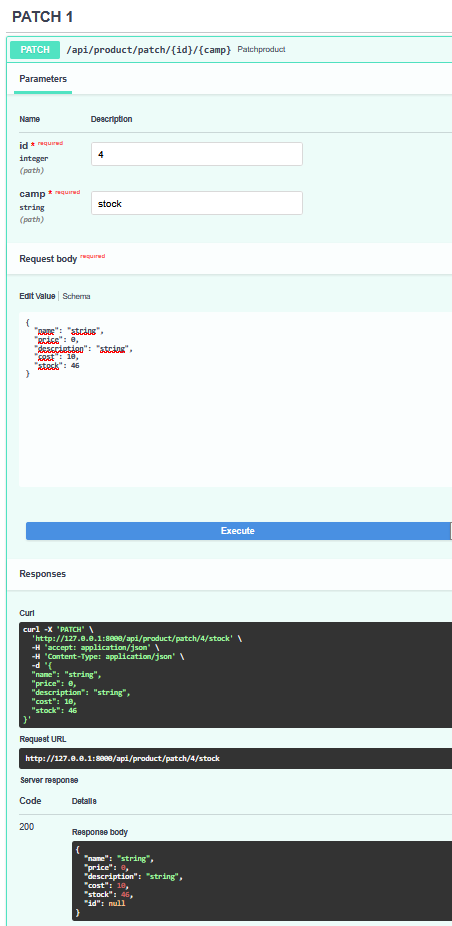
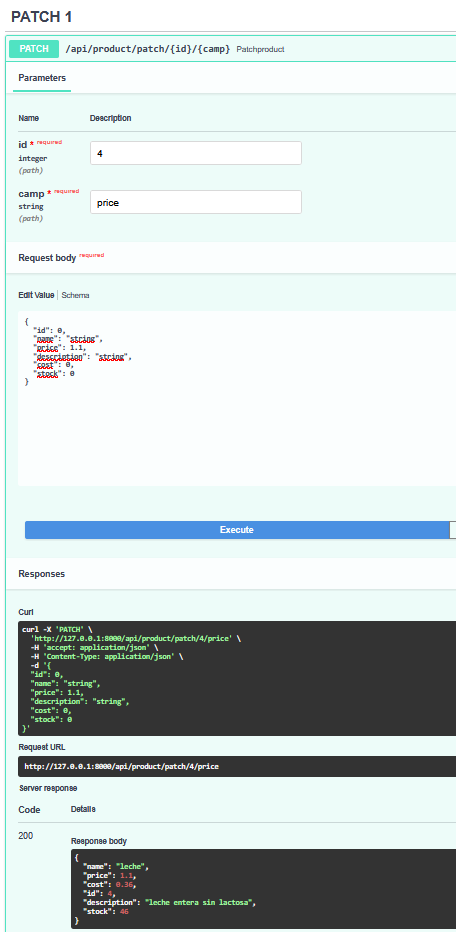
updated patch

diff --git a/main.py b/main.py
@@ -94,7 +94,8 @@ async def patchProduct(id: int,camp:str, product: Product, db:Session=Depends(ge
     stmt = update(Product).where(Product.id == id).values({camp: new_value})
     db.exec(stmt)
     db.commit()
-    return product
+    product_db = db.get(Product, id)
+    return product_db
 
 @app.patch("/api/product/multupdate/{id}/camp1/{camp1}/camp2/{camp2}", response_model=Product, tags=["PATCH 2"])
 async def patch2Product(id: int,camp1:str, camp2:str, product: Product, db:Session=Depends(get_db)):
@@ -103,4 +104,5 @@ async def patch2Product(id: int,camp1:str, camp2:str, product: Product, db:Sessi
     stmt = update(Product).where(Product.id == id).values({camp1: new_value1, camp2:new_value2})
     db.exec(stmt)
     db.commit()
-    return product
+    product_db = db.get(Product, id)
+    return product_db
